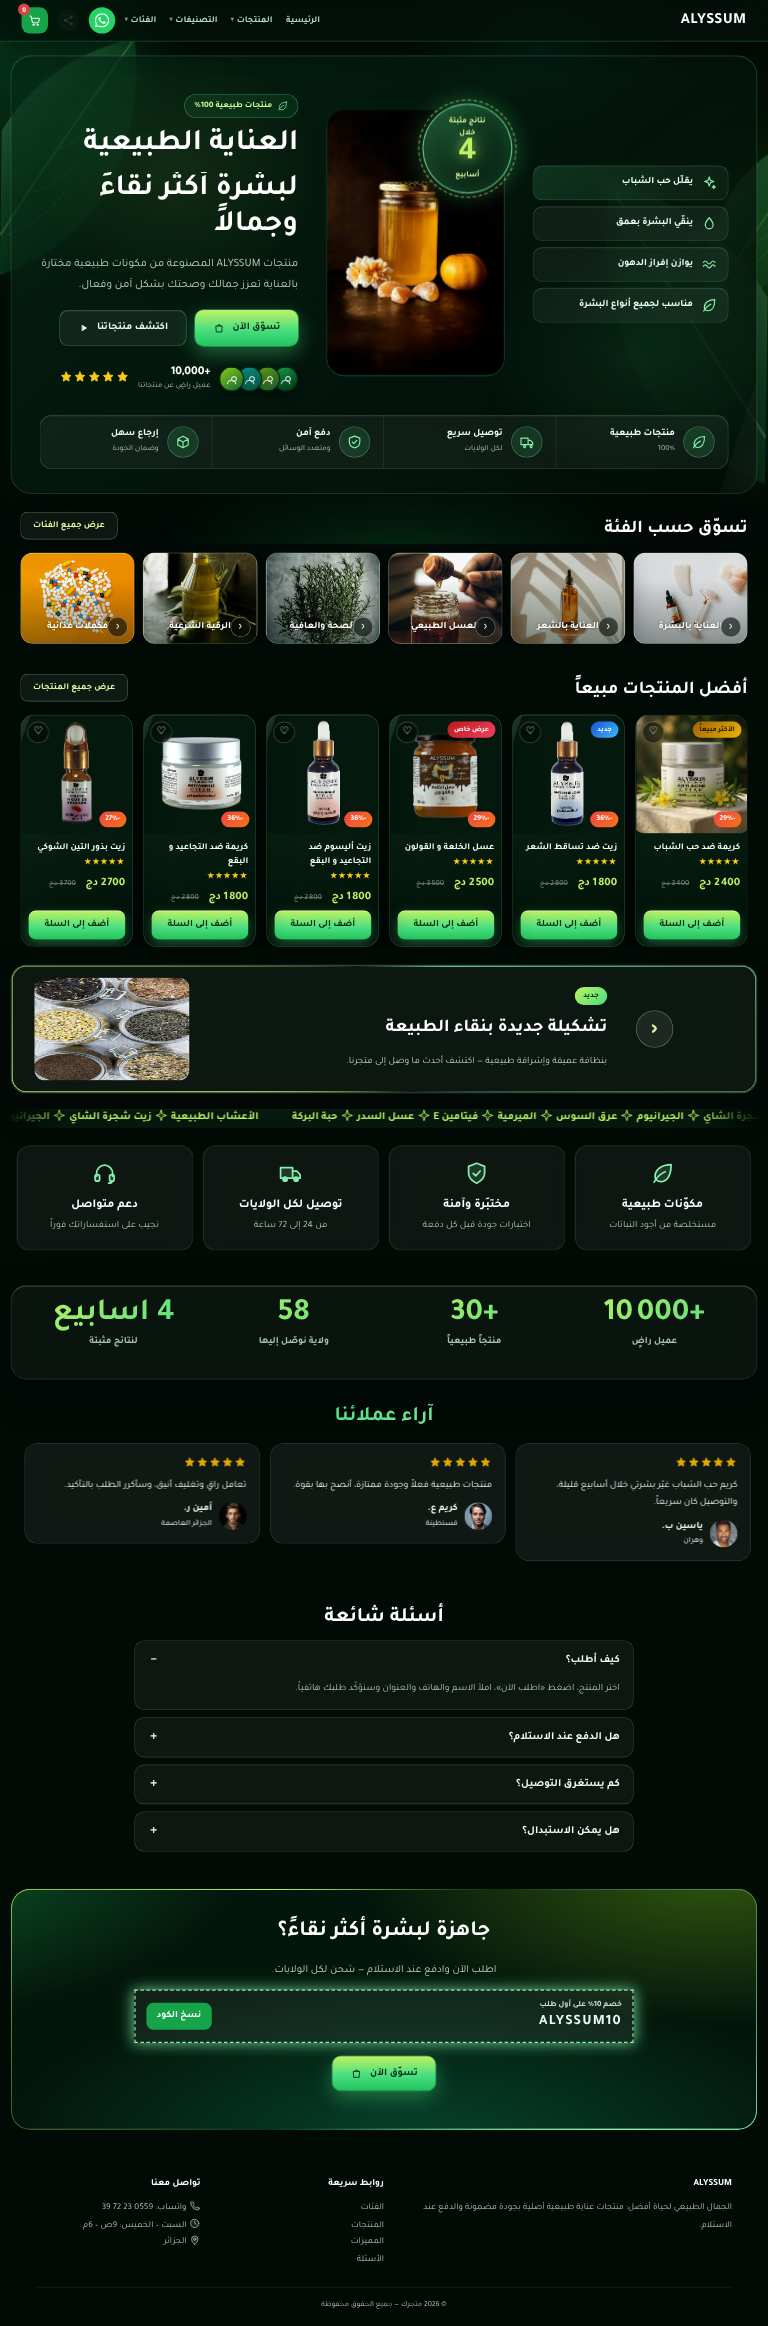
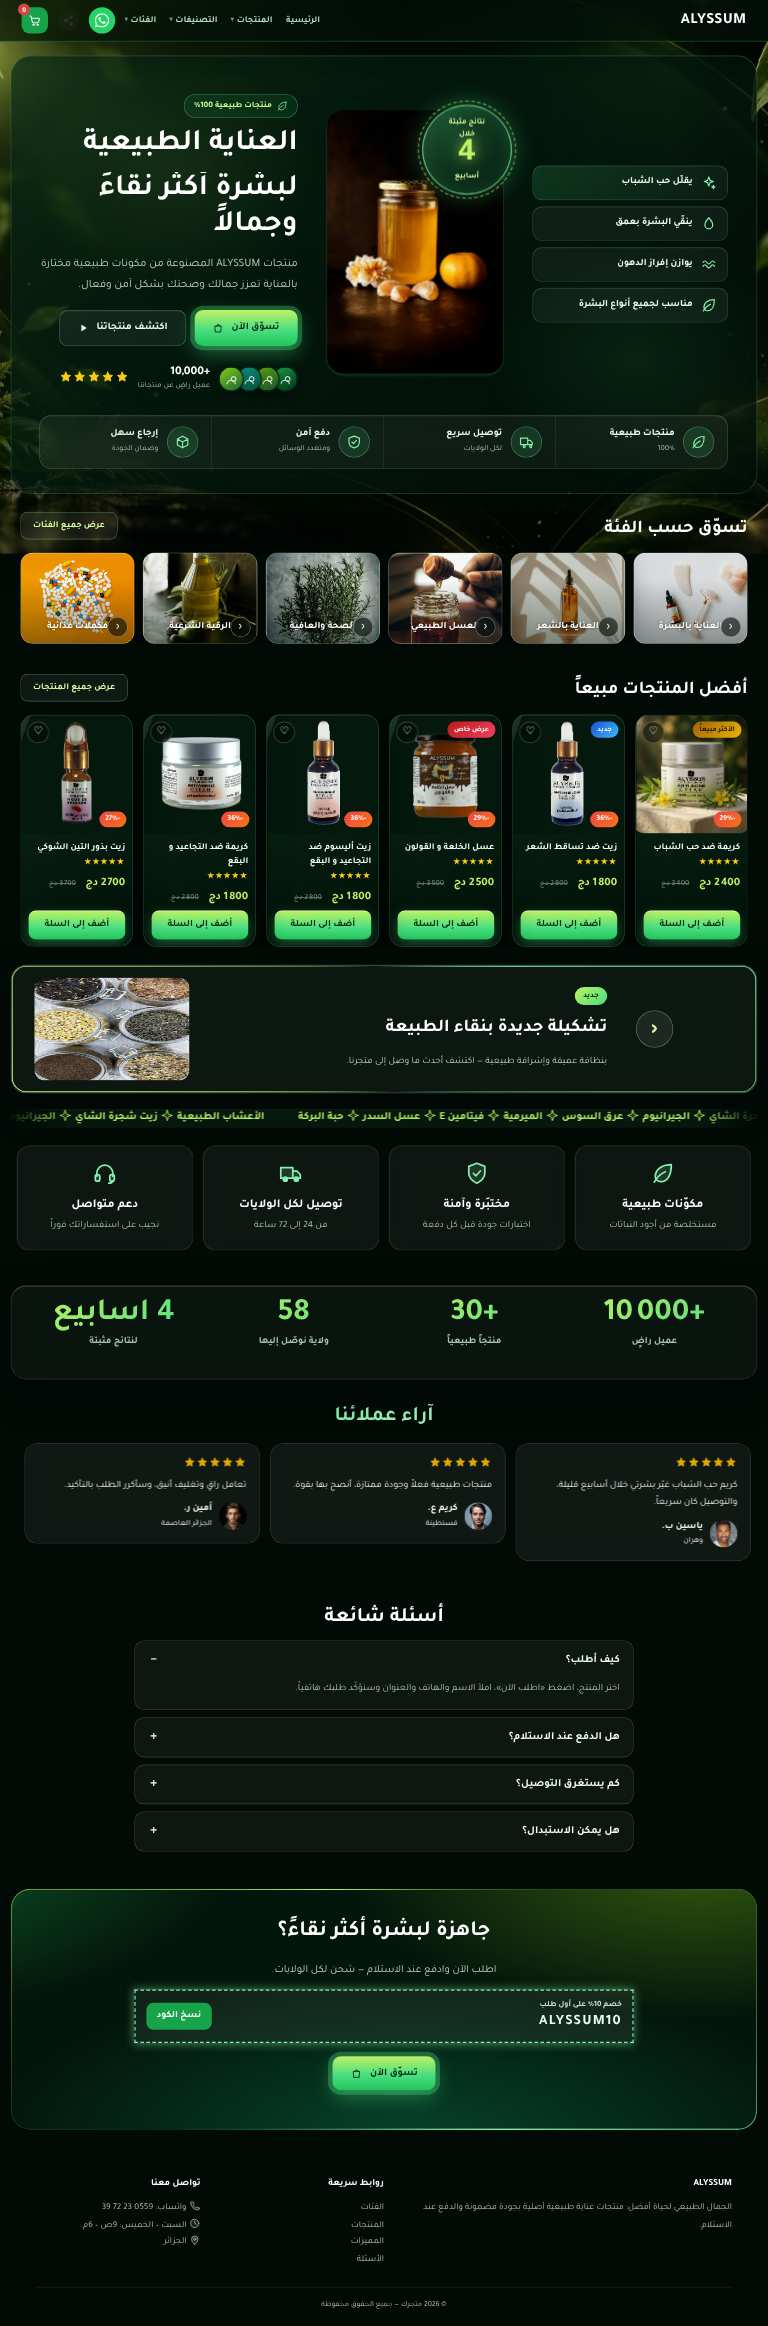
v1.51.1: خلفية قالب أليسوم من صورة مولَّدة (Gemini) بدل أوراق SVG
Claude-Session: https://claude.ai/code/session_018PaJDUPtbAz51NfPkpNWed

diff --git a/admin.html b/admin.html
@@ -3,7 +3,7 @@
 <head>
 <meta charset="UTF-8">
 <meta name="viewport" content="width=device-width, initial-scale=1.0">
-<meta name="admin-version" content="1.51.0">
+<meta name="admin-version" content="1.51.1">
 <title>لوحة التحكم — أليسوم</title>
 <link rel="preconnect" href="https://fonts.googleapis.com">
 <link href="https://fonts.googleapis.com/css2?family=Cairo:wght@400;700;800;900&display=swap" rel="stylesheet">
@@ -1540,12 +1540,12 @@ document.addEventListener("keydown", e=>{ if(e.key === "Escape") SitePreview.clo
 <script src="assets/js/chrome.js?v=9"></script>
 <script src="assets/js/modern-icons.js?v=1.28.3"></script>
 <script>document.addEventListener("DOMContentLoaded",function(){try{ModernIcons.style();ModernIcons.watch({skip:"#pbx-frame,.pbx-ip .g,[data-keep-emoji]"})}catch(e){}})</script>
-<script src="assets/js/ctl-help.js?v=1.51.0"></script>
-<script src="assets/js/chrome-admin.js?v=1.51.0"></script>
-<script src="assets/js/admin-assistant.js?v=1.51.0"></script>
+<script src="assets/js/ctl-help.js?v=1.51.1"></script>
+<script src="assets/js/chrome-admin.js?v=1.51.1"></script>
+<script src="assets/js/admin-assistant.js?v=1.51.1"></script>
 <script src="assets/js/img-gen.js?v=1.51.0"></script>
-<script src="assets/js/admin-nav.js?v=1.51.0"></script>
-<script src="assets/js/admin-update.js?v=1.51.0"></script>
+<script src="assets/js/admin-nav.js?v=1.51.1"></script>
+<script src="assets/js/admin-update.js?v=1.51.1"></script>
 <script src="assets/js/ai-vision.js?v=51"></script>
 <script src="assets/js/avatar-script.js"></script>
 <script src="assets/js/wilayas.js"></script>

diff --git a/assets/js/admin-nav.js b/assets/js/admin-nav.js
@@ -62,7 +62,7 @@ const AdminNav = (() => {
     { id: "o-trust", cat: "order", fld: "صحة وعسل", n: "ضمانات + شارات ثقة + نموذج الطلب", d: "بطاقات الدفع عند الاستلام والتوصيل ثم شارات الثقة ونموذج الطلب.", b: dflt(["assure", "trust", "order"]) },
     { id: "p-focus-honey", cat: "page", fld: "صحة وعسل", n: "هبوط: عسل التركيز", d: "صفحة هبوط كاملة مبنية بعناصر المطوّر على نمط التصميم المرجعي.", file: "focus-honey" }
   ];
-  const LS = { cat: "all", fld: "all" }; let LIBX = null; const V = "3";
+  const LS = { cat: "all", fld: "all" }; let LIBX = null; const V = "1.51.1";
   async function libLoad() { if (LIBX) return; LIBX = []; try { const r = await fetch("assets/pages/templates/index.json?v=" + Date.now(), { cache: "no-store" }); if (r.ok) LIBX = (await r.json()).map(x => Object.assign({ file: x.id, adv: true }, x)); } catch (e) { } }
   function libAll() { return LIB.concat(LIBX || []); }
   async function libOpen() { await libLoad(); LS.cat = "all"; LS.fld = "all"; let m = $("tl-lib"); if (!m) { m = document.createElement("div"); m.id = "tl-lib"; m.onclick = e => { if (e.target === m) libClose(); }; document.body.appendChild(m); } m.style.display = "flex"; libDraw(); }

diff --git a/scripts/gen-templates-alyssum.py b/scripts/gen-templates-alyssum.py
@@ -26,10 +26,9 @@ def S_(p, fill=False): return ic(p, fill)
 ALY_CSS = """
 html{background:#020a06!important}
 body,.pb-page{background:transparent!important;color:#e7f5ec}
-body::before{content:"";position:fixed;inset:0;z-index:-2;pointer-events:none;background:radial-gradient(42% 52% at 0% 8%,rgba(34,197,94,.26),transparent 62%),radial-gradient(38% 46% at 100% 46%,rgba(132,204,22,.17),transparent 62%),radial-gradient(52% 42% at 52% 104%,rgba(22,163,74,.24),transparent 62%),radial-gradient(30% 30% at 70% 10%,rgba(16,185,129,.12),transparent 60%);animation:alyAur 22s ease-in-out infinite alternate}
-@keyframes alyAur{to{transform:scale(1.08) translateY(-10px);filter:hue-rotate(14deg)}}
-body::after{content:"";position:fixed;inset:0;z-index:-1;pointer-events:none;opacity:.5;background:LEAF1 no-repeat left -70px top 70px/310px,LEAF2 no-repeat right -90px bottom 60px/370px,LEAF1 no-repeat right -110px top 36%/230px;animation:alySway 16s ease-in-out infinite alternate;filter:drop-shadow(0 0 30px rgba(34,197,94,.55))}
-@keyframes alySway{0%{transform:translateY(0) rotate(0)}100%{transform:translateY(-22px) rotate(1.6deg)}}
+body::before{content:"";position:fixed;inset:-2%;z-index:-2;pointer-events:none;background:linear-gradient(180deg,rgba(2,10,6,.18),rgba(2,10,6,.5)),url(/assets/img/tpl/alyssum-bg.webp) center/cover no-repeat;animation:alyAur 26s ease-in-out infinite alternate}
+@keyframes alyAur{to{transform:scale(1.06) translateY(-8px)}}
+@media(max-width:767px){body::before{background-position:left center,left center}}
 .pb-sec{position:relative}
 .aly-pill{display:inline-flex;align-items:center;gap:8px;padding:8px 16px;border-radius:999px;background:rgba(21,128,61,.18);border:1px solid rgba(134,239,172,.4);color:#d9f99d;font-weight:800;font-size:14px;backdrop-filter:blur(10px)}
 .aly-pill svg{width:18px;height:18px;color:#86efac}

diff --git a/CLAUDE.md b/CLAUDE.md
@@ -54,6 +54,7 @@
 - **تخطيط نافذة النسخ (v1.33.3):** `.cl-box` ارتفاعها ثابت (`min(94vh,880px)`) وكل أجزائها `flex:none` عدا `.cl-stage` (`flex:1 1 0`) فيبقى تذييل «انسخ» ظاهراً على الشاشات القصيرة (كان يُقصّ خارج الصندوق)، و`.cl-ctl[hidden]{display:none!important}` (كان الصفّان يظهران معاً)، وشريط `#cl-lr` في التذييل يضبط الحد `S.limit` ويمرّر الخط لمجال الرؤية، وسحب الحافة يمرّر النافذة تلقائياً.
 - **صفحات الغلاف والمواقع البرمجية (v1.33.2):** `getPage` في `pagebuilder-clone.js` يتّبع الإطار الرئيسي لصفحات الغلاف (`mainIframe`، مثل معاينة قوالب Wix `iframe[data-hook=desktop-iframe]`) حتى مستويين، ويحوّل تلقائياً إلى `fetchFull` عند فشل الجلب السريع أو إذا كانت الصفحة قشرة جافاسكربت (`bodyInfo`: نص<150 وصور<3) متى توفّر GitHub (`canFull`). جُرّب على قالب Wix حقيقي عبر Actions (61 عنصراً بمواضعها).
 - **إضافة كروم لنسخ القالب (v1.34.0):** `extension/alyssum-clone-helper/` (MV3: `manifest.json`، `bridge.js` محتوى سكربت على `*://*/admin.html*` يمرّر رسائل `window.postMessage` — الطلب `{alyReq:1,type:ping|fetch,id}` والردّ `{aly:1,type:pong|res,id}` — ويطلب موافقة `confirm` لكل أصل ويحفظها في `chrome.storage.local`، و`background.js` يفتح نافذة popup مؤقتة `chrome.windows.create` (يجرّب عروضاً أصغر إن كانت الشاشة أصغر)، ينتظر التحميل وصفحات التحقق حتى 40ث، يمرّر الصفحة، يجمّد DOM ويعيد `{html,iw,title}` ثم يغلقها). تُحزَّم بـ`python3 scripts/build-extension.py` إلى `assets/ext/alyssum-clone-helper.zip` (**أعد بناءها بعد أي تعديل للإضافة**)، وفي `pagebuilder-clone.js` قسم `EXT`/`extCall`/`extPing`/`extUi`/`fetchViaExt`/`extHelp` وأولوية `getPage`: GitHub الكامل (إن طُلب) ← الإضافة ← الوسطاء ← المتصفح الكامل تلقائياً. اختُبرت بـPlaywright (`launchPersistentContext` + `--headless=new --load-extension`) على صفحة مبنية بالجافاسكربت. **v1.34.1 (إضافة 1.1.0):** `grab` يقيس كل الإطارات بلا تعديل (`allFrames`) وينتظر حتى ~30ث ظهور محتوى (الإطار الداخلي يتأخر)، يمرّر الصفحة وحاويات التمرير الداخلية، ثم يجمّد **الإطار الأكبر محتوى فقط** (`frameIds`) — لا تجمّد كل الإطارات معاً فالرئيسي يحذف الـiframe قبل أن يعمل سكربت الداخلي (كانت صفحات Wix تظهر بيضاء)؛ يعيد `url` الإطار ليكون أساس `<base>`، ويرفض الصفحة الفارغة برسالة، ولوحة النسخ تنبّه «حدّث الإضافة» إن كانت النسخة <1.1.0 (v1.34.2: `extOld()` تتجاهل الإضافة القديمة، و`load` يرفض عرض صفحة وصلت فارغة بنص<60 وصور<3 برسالة بدل معاينة بيضاء؛ اختُبر بالرابط الحقيقي لقالب Wix wh-1050 عبر Playwright + الإضافة). **v1.34.4 (إضافة 1.1.2):** النافذة تُفتح `focused:true` (كروم يوقف رسم النوافذ المحجوبة فلا تُحمَّل الأقسام السفلية) و`grab` يعيد `stats{text,imgs,h,frames}` فتُظهره حالة الأداة «قرأ كروم N حرفاً…» لتشخيص الصفحات الناقصة. **v1.34.6:** `getPage` يُرجع `src` (chrome|proxy|github) وتُظهره حالة الأداة «[المصدر: …]»؛ والجلب العادي (`proxy`) الذي يعيد قشرة (نص<150 وصور حقيقية<3) يُرفض برسالة تدلّ على تثبيت/تحديث الإضافة أو سبب فشلها (`S.extErr`). **v1.34.7 (إضافة 1.1.3):** اختيار الإطار: إن غطّى إطار داخلي >50% من نافذة الإطار الرئيسي (`bf`) فالمحتوى فيه لا في الغلاف وتنتظر `measure` تحميله (كانت تُنسخ أحياناً شريط Wix العلوي فقط لأن نص الغلاف تجاوز العتبة)؛ والأداة تقيس المعاينة (`diagPage`/`measureDoc` بـ`checkVisibility`) وتُظهر العناصر المخفية بـopacity:0/visibility:hidden إن كانت المعاينة شبه فارغة مع وجود نص، وزر «نسخ التقرير» (`copyDiag`) ينسخ `S.diag` للدعم؛ وحدّ `extOld` صار 1.1.3. **تنبيه اختبار:** لا تكتب `open(f,'w').write(open(f).read()...)` فهو يُفرغ الملف (أفرغ manifest.json فتوقفت الإضافة عن التحميل)؛ تحقق بـ`ctx.serviceWorkers().length` في Playwright (ارفع الحد في `extUi` عند تغيير بروتوكول الإضافة).
+- **v1.51.1 — خلفية أليسوم:** `assets/img/tpl/alyssum-bg.webp` (صورة مولَّدة بـGemini من اشتراك صاحب المتجر) صارت خلفية `body::before` الثابتة في `ALY_CSS` (gen-templates-alyssum.py) بالمسار المطلق `/assets/img/tpl/alyssum-bg.webp` مع تدرّج تعتيم، وأُزيلت أوراق SVG القديمة (`body::after`)؛ على الجوال `background-position:left`. عند طلب صور أخرى لأصول القالب يولّدها صاحب المتجر في تطبيق جيميني ويرسلها، ثم تُحفظ في `assets/img/tpl/` وتُضاف لـ`shared-files.json`.
 - **v1.51.0 — مولّد الصور داخل المطوّر (وضع «صور إشهارية»):** تبويب مطوّر الصفحات في admin.html بطاقتان `#pb-modes` (`PBAdmin.mode('web'|'ad')` في pagebuilder-editor.js): `#pb-web` (القائمة القديمة، وزر «🪄 صفحة هبوط ذكية» = `openGen`) و`#pb-ad` الذي يحمل `#ig-body` (لوحة `ImgGen`)؛ `Admin.tab('imggen')` يحوّل إلى المطوّر بالوضع الإشهاري (`tab-imggen` فارغ). **النص اختياري بثلاثة أوضاع** (`alyssum_ig_txtm`: none|builder|gemini، والقديم `text` = gemini): `builder` يطلب من Gemini خلفية بمساحة فارغة (`textArea`) ثم `adPage` يضيف طبقات `heading/text/button` (السطر1 عنوان، الأوسط وصف، آخر سطر زر عند ≥3 أسطر؛ مواضع `adLayout(kind,W,H,lang)` حسب `layoutKind`، لون النص من سطوع منطقته `lum`). **محرّك التعليمات** `buildPrompt`: `ART` اتجاه فني حسب نوع المنتج + `CAMERA` + `RULES` (أمانة المنتج، بلا أشخاص/علامات) + نص/مساحة نص — **جودة الصور تعتمد عليه فعدّله هناك**. لوحة الإعلان صفحة بـ`page.ad={w,h,id,platform}` (قسم قماش `scaled` بـ`dw=W`، `mh=H`، الخلفية صورة بمسار افتراضي `assets/img/pages/ad-bg-*` في `Admin.localImg` بلا رفع)؛ وفي المطوّر الصنف `pbx-ad` على `#pb-app` يخفي التابلت/الهاتف/النشر/نسخ قالب/الجاهزة/إعدادات الصفحة، ولوحة العناصر `AD_OK` فقط، وزر `#pbx-adx` «⬇ تصدير الصورة» ← `ImgGen.exportAd` (`renderAd`: iframe مخفي بعرض W وارتفاع H + `assets/js/vendor/html-to-image.min.js` v1.11.11 ← لوحة بالبكسل ثم تنزيل PNG/WebP أو مكتبة). اختُبر بـPlaywright بمحاكاة Gemini (1080×1920 بدقة، نص عربي سليم)؛ **لم يُجرَّب بمفتاح حقيقي** (ينتظر مفتاحاً غير مقيَّد). لاحقاً: حفظ تصميم الإعلان قابلاً للتعديل، «نسخة لمنصة أخرى».
 - **v1.50.0 — مولّد الصور (استثناء بطلب صاحب المتجر من تعطيل Gemini):** `assets/js/img-gen.js` (`ImgGen`) تطبيق `imggen` (تبويب `tab-imggen`/`#ig-body`، مكان عمل مخفي `data-work=imggen`، عنصر إعدادات `data-app=imggen`) يولّد بـGemini **صورة منتج** (خلفية تناسب نوعه) أو **صورة إشهارية** بمقاسات منصات (`SIZES`: Facebook/Instagram/TikTok/Shorts/YouTube/Google Ads/مخصّص) بنص أو بلا نص؛ `buildPrompt` تعليمات لكل نوع (+ قواعد: بلا أشخاص ولا علامات مائية، المنتج المرجعي كما هو) تُرسل مع صورة المنتج، والنسبة الأقرب (`nearAr`) تُرسل كـ`aspectRatio` ثم `fit` يقصّ بالبكسل. المفتاح في `localStorage alyssum_gp_gkey` (نفسه لمولّد الصفحات) ولا يُكتب في المستودع. **ضبط التكلفة:** نموذج افتراضي الأرخص `gemini-2.5-flash-image` (≈0.039$)، لا إعادة محاولة تلقائية، تأكيد قبل كل توليد، `alyssum_ig_budget` حدّ إنفاق (افتراضي 3$) و`alyssum_ig_spent` عدّاد تقديري. النتيجة: فتح في المطوّر (`PBApp.insertSections` أو صفحة جديدة) أو مكتبة (`PBApp.uploadBlob` داخل المحرّر وإلا `Admin.uploadImageFile` إلى `assets/img/pages/gen-*`) أو تنزيل. اختُبر بمحاكاة API (المفتاح الحقيقي لم يكن صالحاً: API_KEY_SERVICE_BLOCKED). لا يتأثر بـ`CONFIG.AI_API` (بقية مواضع Gemini تبقى معطّلة).
 - **v1.49.0 — قالب «أليسوم» (معاينة/تعديل/تثبيت):** `scripts/gen-templates-alyssum.py` يولّد `s-alyssum.json` (علم `alyssum:true` في index.json): صفحة رئيسية كاملة بعناصر المطوّر + `page.css` (خلفية الصفحة المتحركة وأوراق النباتات وبطاقات `.pb-pc` الزجاجية وبقية الأنماط). `AdminNav.alyPreview` (نافذة `SitePreview.openHtml` بزرّي «تعديل» و«تثبيت» الجديد `#spv-inst` عبر `opts.install`)، `alyEdit` (يفتحه في المطوّر)، `alyInstall` (`alyLocalize`: صورة `slot:hero` ← غلاف منتج «best»، `slot:banner`، بطاقات الفئات من `Admin.categories` بصور منتجاتها، اسم المتجر؛ يفتح الرئيسية بـ`PBConvert.edit('home')` ثم يستبدل `sections` ويضع `page.tplCss`، ويُضاف قسم `#chips/#grid` ليعمل `initHome`/`goToCategory`؛ أقسام `grp` top/main/bot). `page.tplCss` يُرسم في المحرّر وfullHtml وsaveDirect (وسم `<style id=pb-tpl-css>`). المنتجات `products` تأخذ بياناتها الحية من data.js فروابطها لمتجرك أصلاً. **تثبيت قالب آخر بالمبدأ نفسه**: ضع `slot` على الصور و`grp` على الأقسام.

diff --git a/assets/img/tpl/CREDITS.md b/assets/img/tpl/CREDITS.md
@@ -1,3 +1,5 @@
 # صور القوالب الافتراضية
 صور فوتوغرافية مجانية للاستعمال التجاري من Unsplash (Unsplash License — لا يلزم الإسناد)، محفوظة محلياً بصيغة webp. تُجلب بـ`python3 scripts/fetch-template-images.py`.
 شروط صاحب المتجر لأي صورة جديدة: بلا علامات مائية أو شعارات مواقع/علامات تجارية ظاهرة، ولا امرأة بلا خمار، ولا جزء عارٍ من الجسم غير الوجه واليدين. تُستبدل بصور المتجر الحقيقية من المحرّر.
+
+- `alyssum-bg.webp`: خلفية قالب أليسوم، مولَّدة بالذكاء الاصطناعي (Gemini) بطلب صاحب المتجر؛ بلا علامات مائية.
